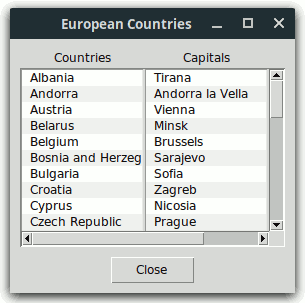
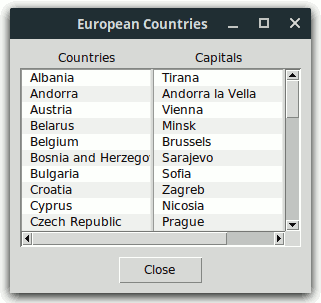
* doc/SyncListboxes.png Updated. 	* doc/scrollutil.html

diff --git a/modules/scrollutil/doc/scrollutil.html b/modules/scrollutil/doc/scrollutil.html
@@ -488,7 +488,7 @@ pack $sa -expand yes -fill both -padx 10 -pady 10
   <a href="scrollarea.html">scrollarea</a>.</p>
 
   <blockquote>
-    <img src="SyncListboxes.png" alt="SyncListboxes" width="300" height="303">
+    <img src="SyncListboxes.png" alt="SyncListboxes" width="321" height="303">
   </blockquote>
 
   <p>Here is the relevant code, in which the lines related to the scrollarea
@@ -519,8 +519,8 @@ $sa setwidget $ss</span>
 
 . . .
 
-set lb1 [listbox $ss.lb1 -width 15 -highlightthickness 0]
-set lb2 [listbox $ss.lb2 -width 15 -highlightthickness 0]
+set lb1 [listbox $ss.lb1 -activestyle none -highlightthickness 0 -width 16]
+set lb2 [listbox $ss.lb2 -activestyle none -highlightthickness 0 -width 16]
 <span>$ss setwidgets [list $lb1 $lb2]</span>
 
 . . .
